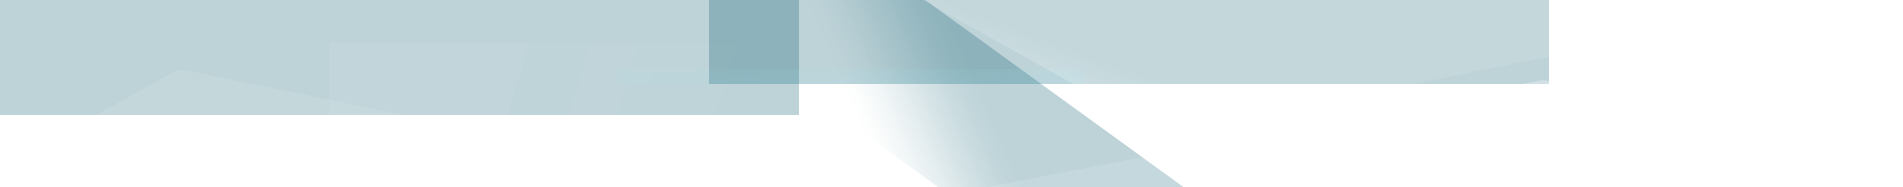
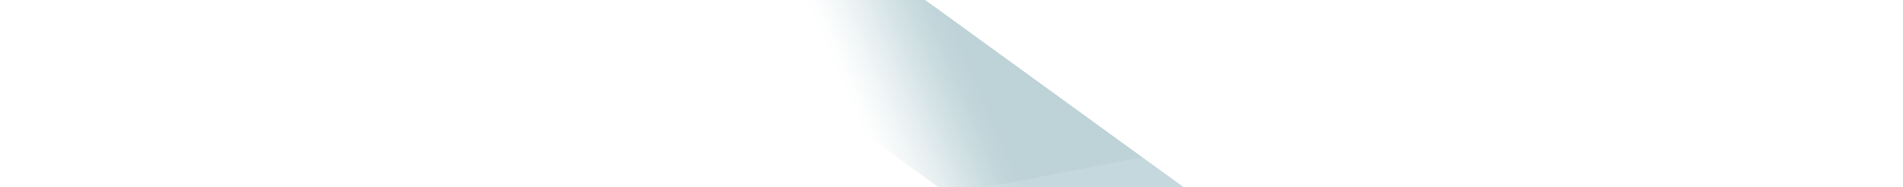
layout header/mobile 480px changes

diff --git a/public/less/layout.less b/public/less/layout.less
@@ -216,17 +216,93 @@ main {
 .navbar-brand>img {
 	margin-left: 5px;
 }
-
+header{
+	overflow: hidden;
+}
 #header{
 	background-color: #02819e;
+	background-image: url("/modules/JobsFrankfurt/bg_header.png");
+	background-repeat: no-repeat;
 	color: #fff;
 }
-
+.search-form-container{
+	background-color: #02819e;
+	background-image: url("/modules/JobsFrankfurt/bg_header.png");
+	background-repeat: no-repeat;
+	background-position: bottom;
+}
 .search-form-container {
   .btn-primary {
     background-color: #db9a00;
     border: none;
   }
+}
+.navbar-nav{
+	z-index: 1;
+}
+#similar{
+margin-top: 0px;
+line-height: 0;
+}
+#header{
+	position: relative;
+}
+#header::before {
+    -webkit-transform: translate3d(-15vw,0,0) skewX(-111deg);
+    transform: translate3d(-15vw, 0, 0) skewX(-111deg) !important;
+    background-color: #196779;
+	opacity: .6;
+}
+#header::before {
+    animation: slide 1s forwards;
+    animation-delay: 0s;
+    animation-delay: 0.5s;
+}
+#header::before, #header::after {
+    position: absolute;
+    content: '';
+	top: -13px;
+	right: -103vw;
+	width: 128vw;
+	height: 42vh;
+    -webkit-transform: translate3d(100vw,0,0);
+transform: translate3d(100vw,0,0);
+-webkit-transition: -webkit-transform .5s .15s ease-out;
+transition: -webkit-transform .5s .15s ease-out;
+transition: transform .5s .15s ease-out;
+transition: transform .5s .15s ease-out,-webkit-transform .5s .15s ease-out;
+    transition-delay: 0.15s, 0.15s;
+}
+
+.search-form-container{
+	position: relative;
+	overflow: hidden;
+}
+.search-form-container::before {
+    -webkit-transform: translate3d(-15vw,0,0) skewX(-111deg);
+    transform: translate3d(-15vw, 0, 0) skewX(111deg) !important;
+    background-color: #196779;
+	opacity: .6;
+}
+.search-form-container::before {
+    animation: slide 1s forwards;
+    animation-delay: 0s;
+    animation-delay: 0.5s;
+}
+.search-form-container::before, .search-form-container::after {
+    position: absolute;
+    content: '';
+	top: -13px;
+	left: -103vw;
+	width: 128vw;
+	height: 42vh;
+	-webkit-transform: translate3d(100vw,0,0);
+	transform: translate3d(100vw,0,0);
+	-webkit-transition: -webkit-transform .5s .15s ease-out;
+	transition: -webkit-transform .5s .15s ease-out;
+	transition: transform .5s .15s ease-out;
+	transition: transform .5s .15s ease-out,-webkit-transform .5s .15s ease-out;
+	transition-delay: 0.15s, 0.15s;
 }
 
 // IPad und größer
@@ -281,8 +357,7 @@ main {
 			.searchform {
 				position: relative;
 				margin-top: 1%;
-    				margin-bottom: 1%;
-    				background:#02819e;
+    			margin-bottom: 1%;
 				padding: 0px;
 				.row {
 					text-align: center;
@@ -357,6 +432,18 @@ main {
 
 		}
 	}
+	.navbar-toggle {
+		position: relative;
+		float: right;
+		padding: 9px 10px;
+		margin-right: 29px;
+		margin-top: 34px;
+		margin-bottom: -17px;
+		background-color: transparent;
+		background-image: none;
+		border: 2px solid #fff;
+		border-radius: 4px;
+	}
   // Ipad
   @media(max-width: @screen-sm) {
     .search-form-container {
@@ -422,8 +509,8 @@ main {
 			}
 		}
 		button.collapsed {
-			border-color: @g24-grey;
-			background-color: @brand-primary;
+			border-color: #fff;
+			background-color: transparent;
 		}
 	}
 }
@@ -500,9 +587,6 @@ h6{
 .logotype span{
     text-transform: uppercase;
     font-weight:600;
-}
-.container-fluid{
-	background-color:#02819e;
 }
 .pagination{
 	margin-top: 15px !important;
